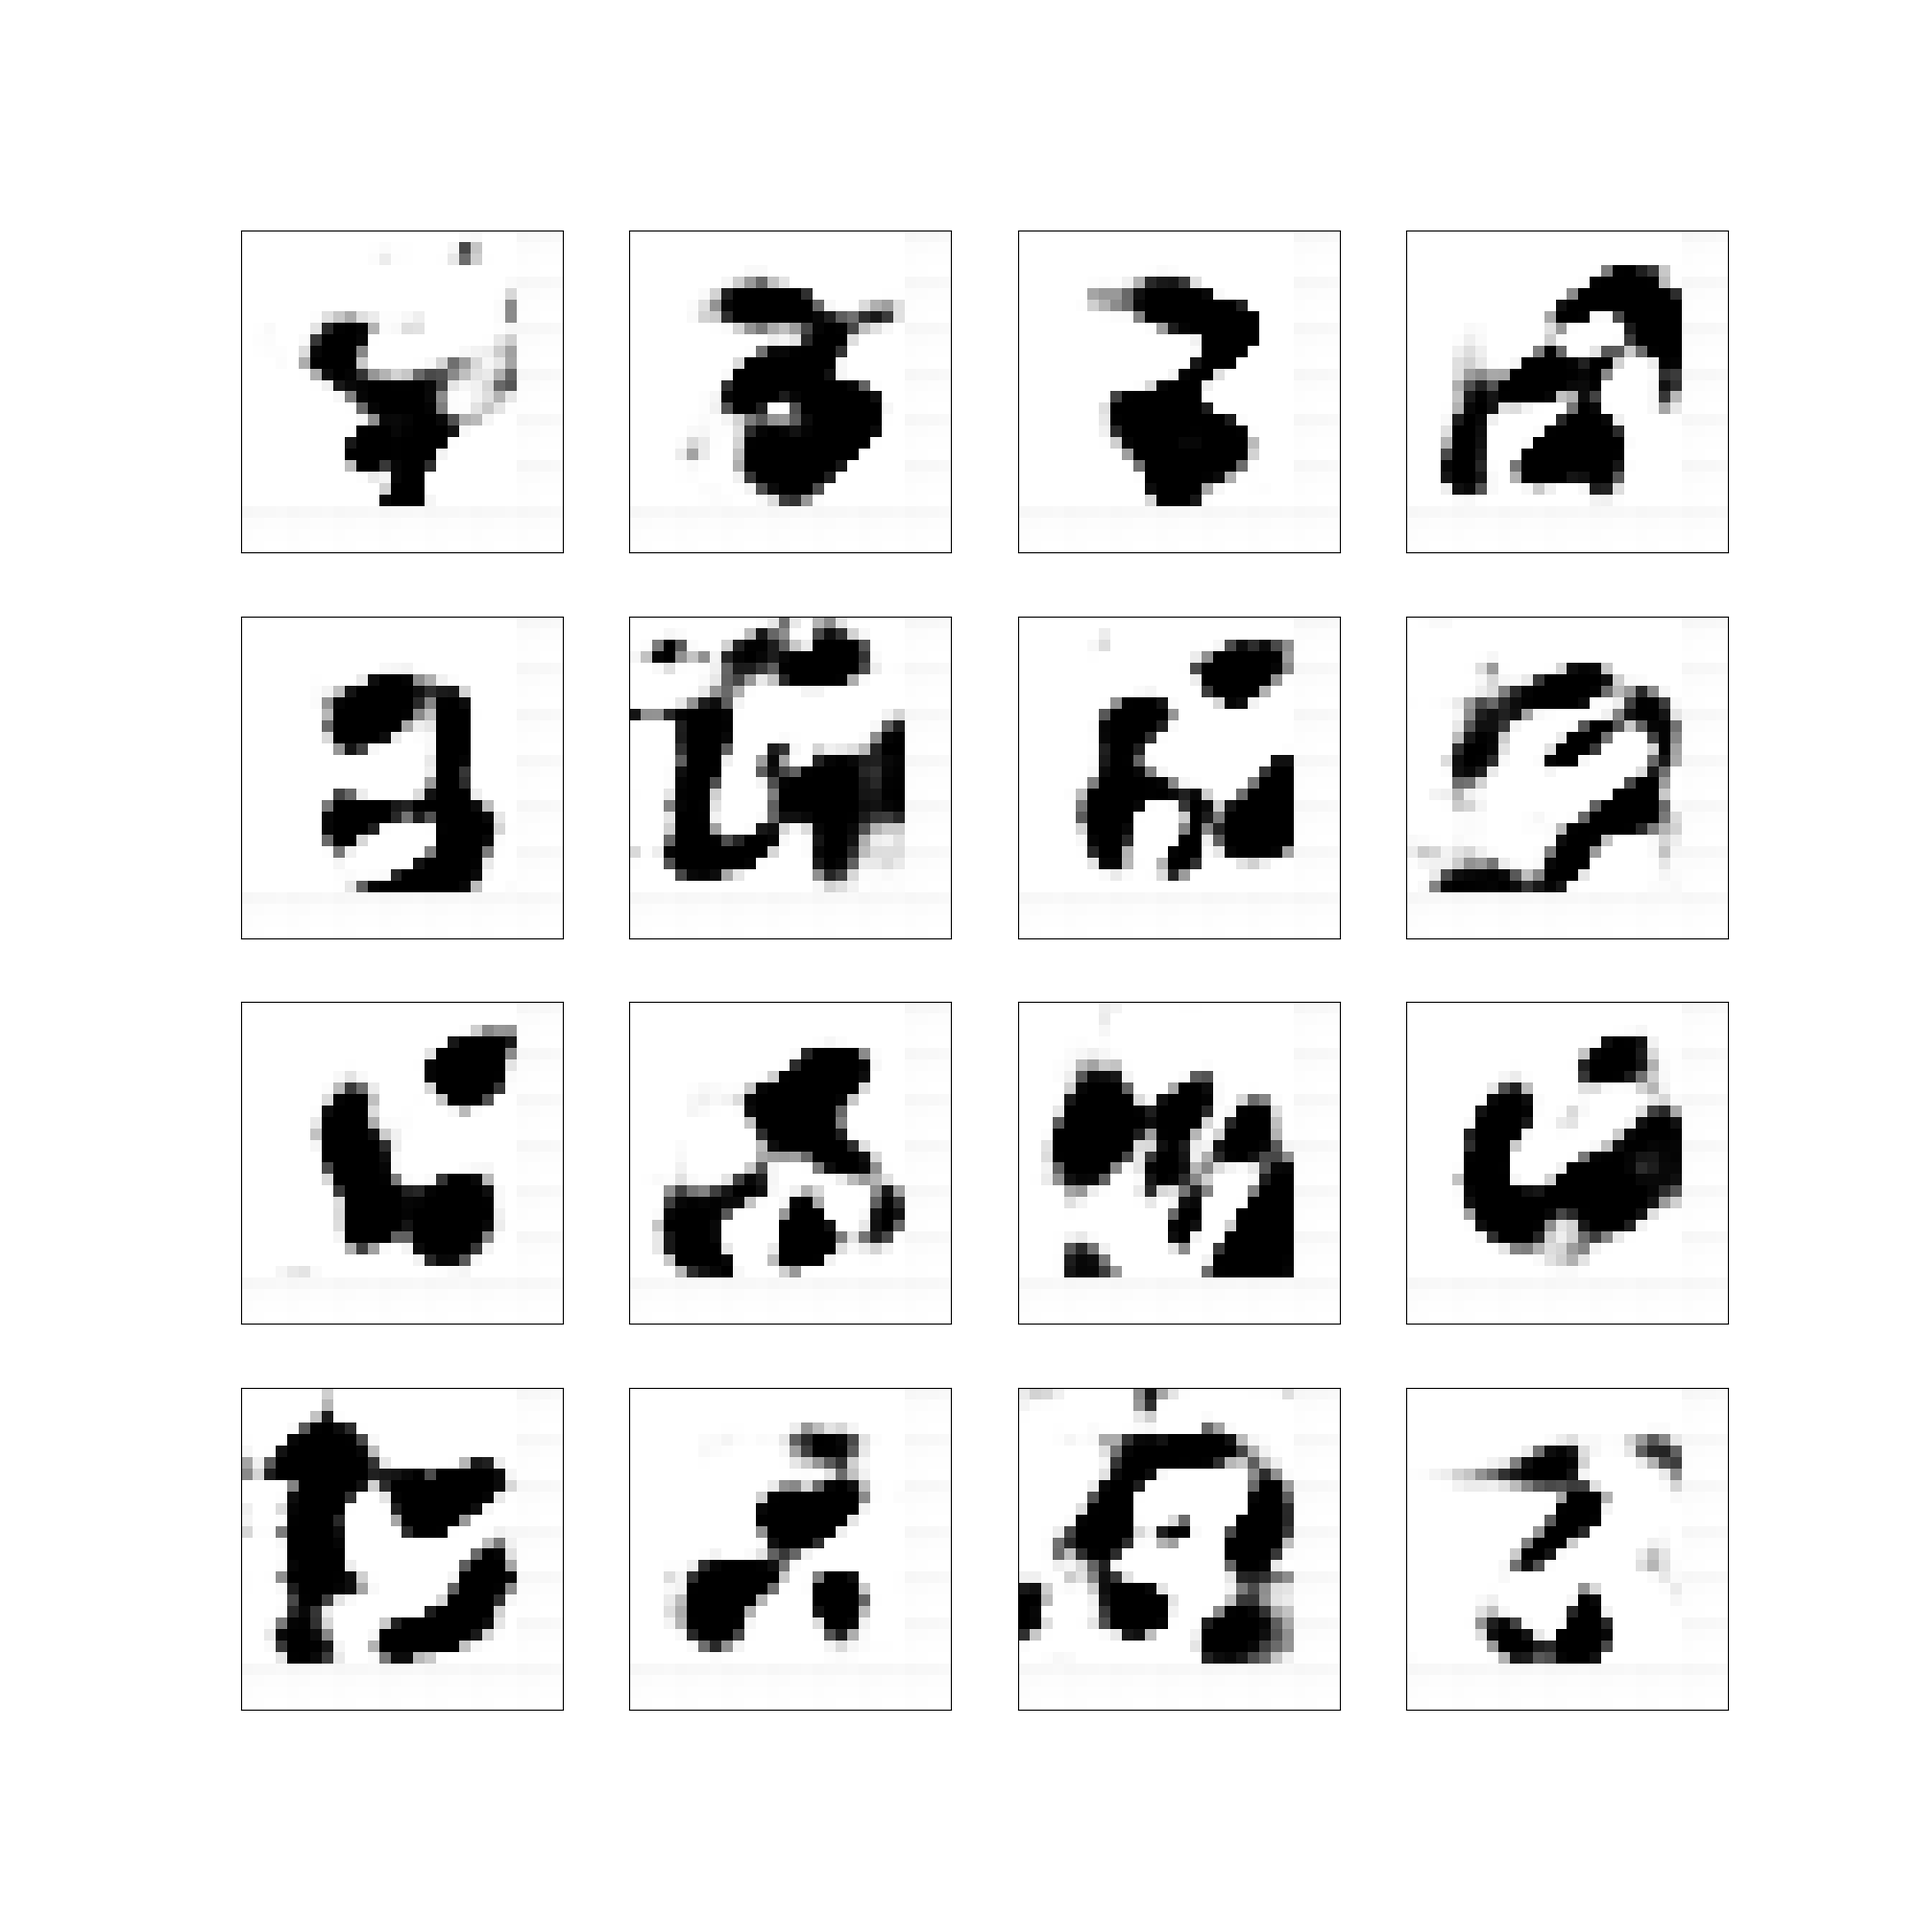
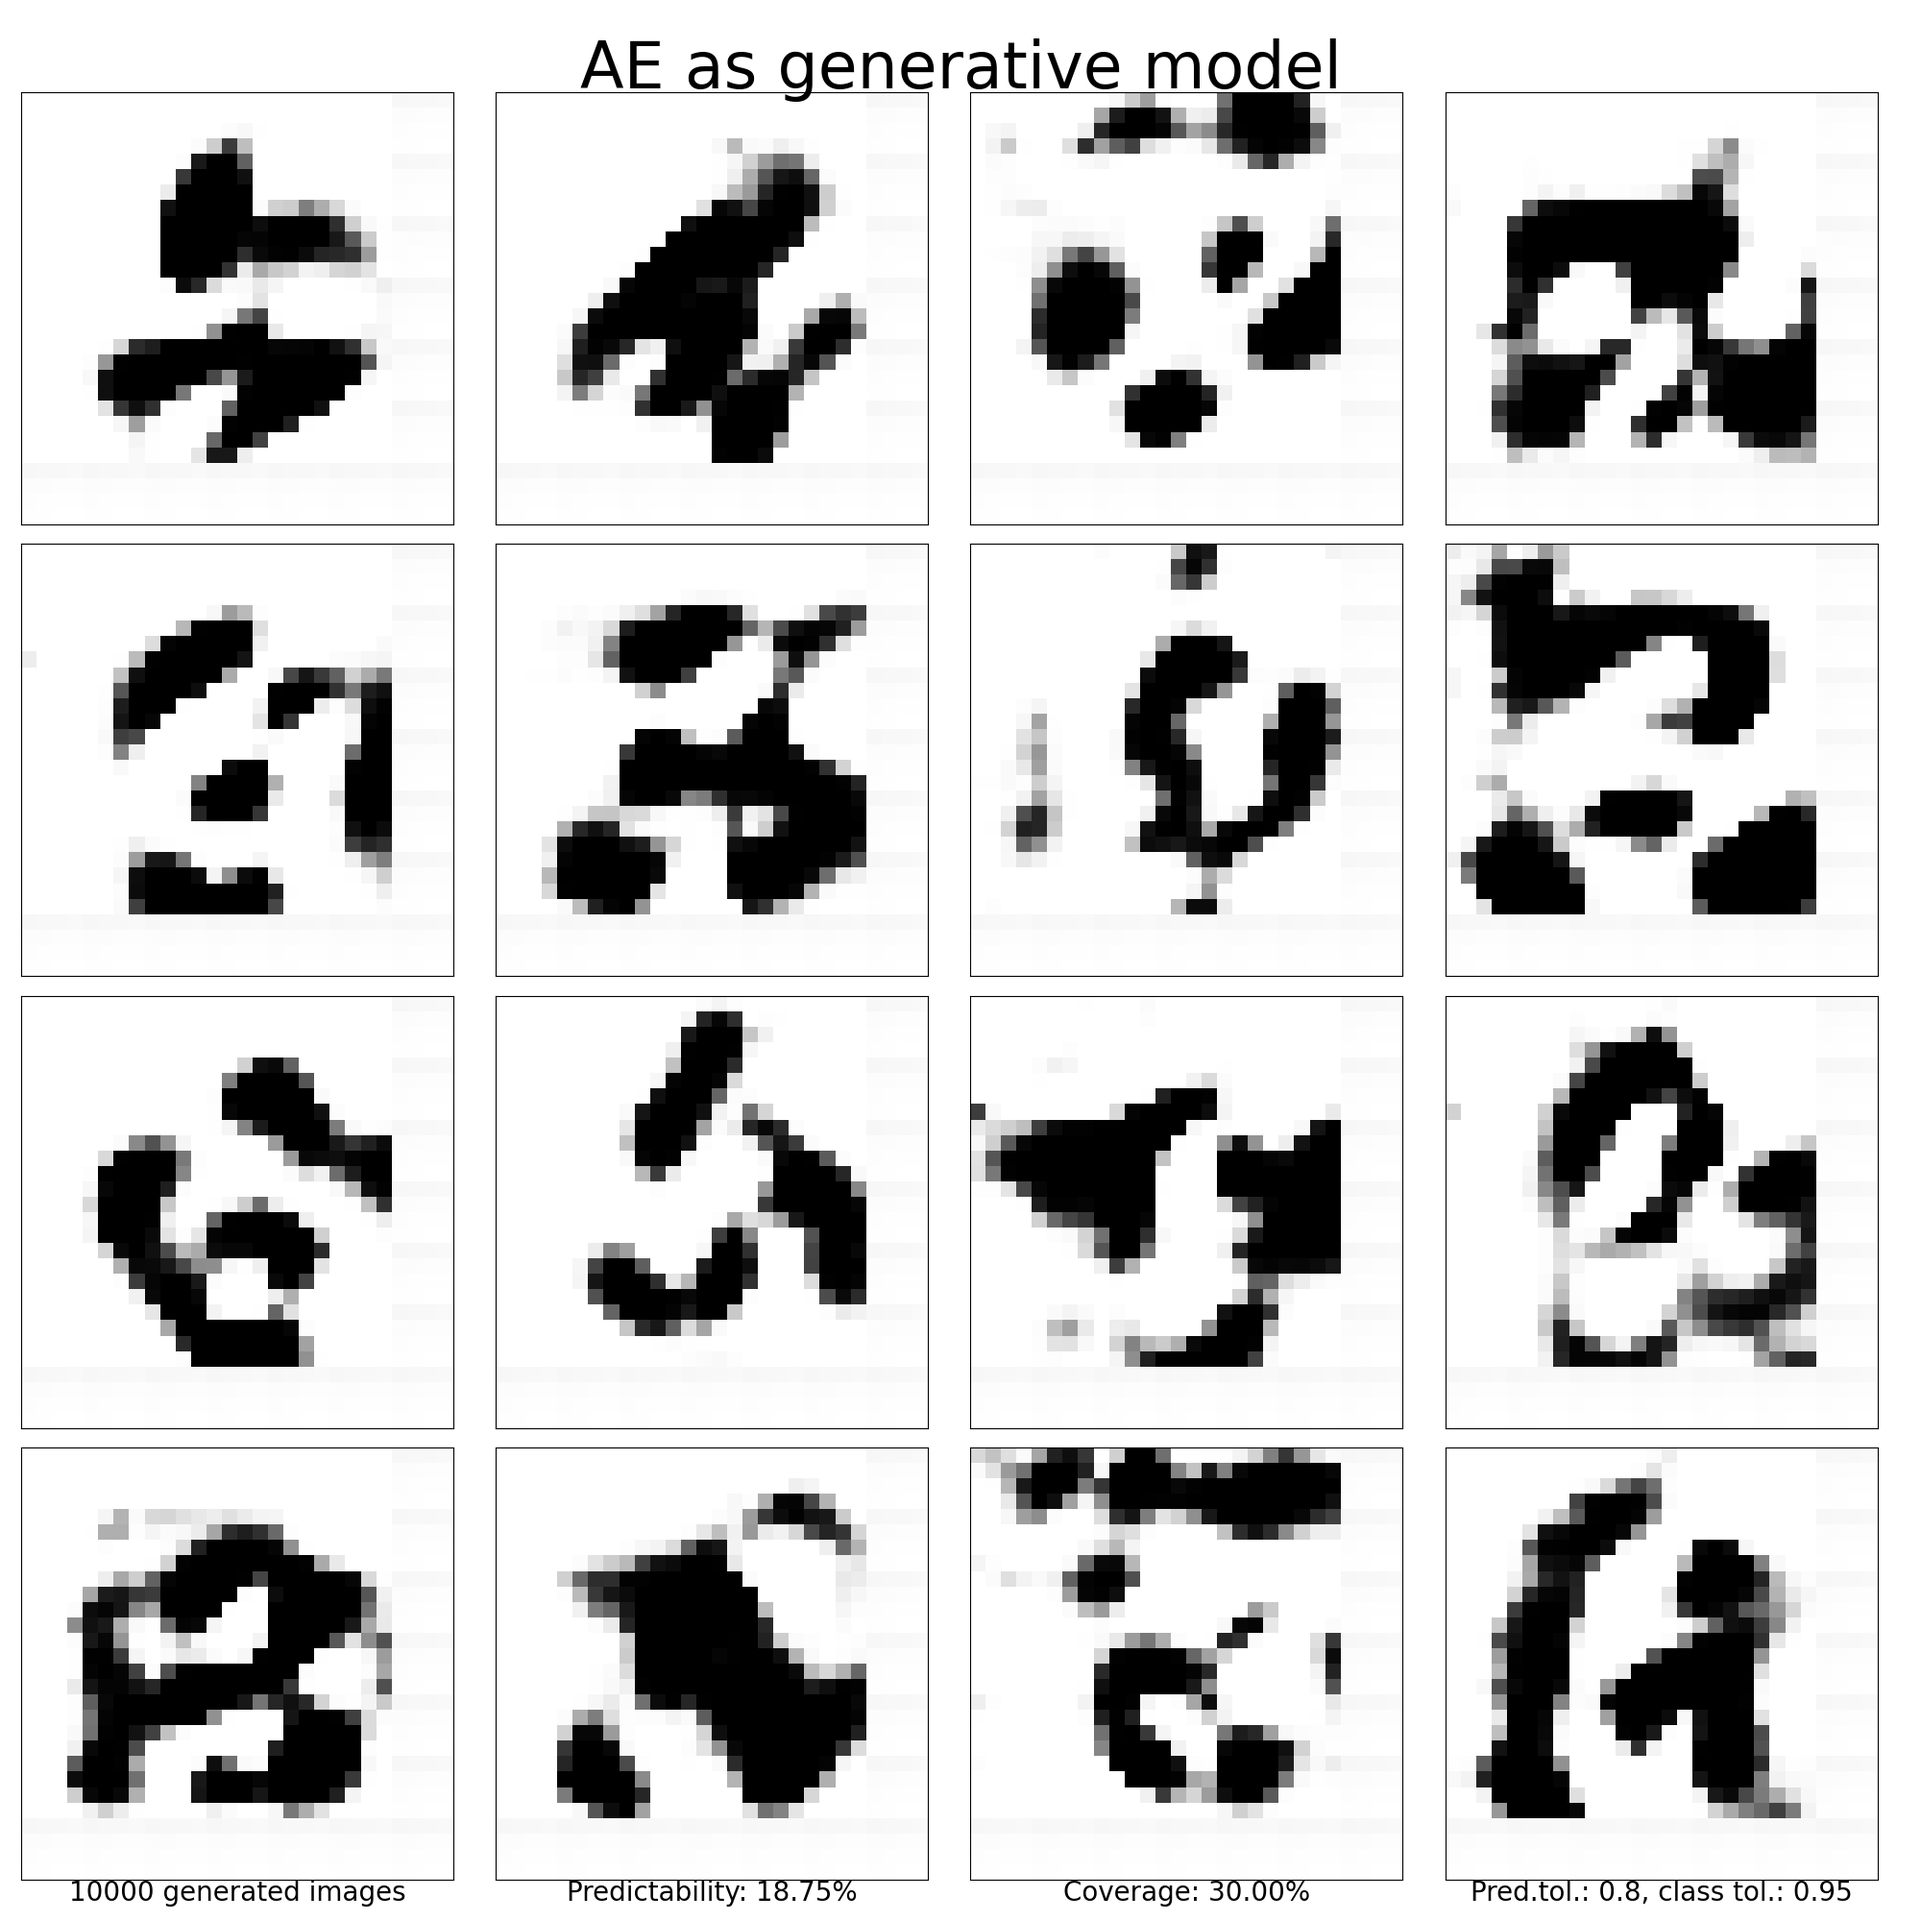
Update AE generative mode with necessary stats + title

diff --git a/Project 2 - Probabilistic AI/main_autoencoder.py b/Project 2 - Probabilistic AI/main_autoencoder.py
@@ -230,6 +230,13 @@ def plot_generative_model(model_path: str, channels: int, plot_savepath: str):
     model = load_model(model, model_path)
     model.eval()
 
+    verification_net = VerificationNet(file_name="./models/verification/verification_model")
+    verification_net.load_weights()
+
+    num_generatives = 10000
+    pred_tolerance = 0.8
+    class_tolerance = 0.95
+
     data, _ = data_generator.get_full_data_set(training=False)
     encoded = model.encode(data)
     maxes = torch.max(encoded, 0).values
@@ -237,19 +244,50 @@ def plot_generative_model(model_path: str, channels: int, plot_savepath: str):
 
     z = (maxes - mins) * torch.rand((16, 28)) + mins
     outputs = model.decode(z)
-    outputs = torch.permute(outputs, (0, 2, 3, 1)).detach().numpy()
+    images = torch.permute(outputs, (0, 2, 3, 1)).detach().numpy()
 
-    _, axes = plt.subplots(nrows=4, ncols=4, figsize=(20, 20))
+    predictability, _ = verification_net.check_predictability(
+        images, tolerance=pred_tolerance
+    )
+    coverage = verification_net.check_class_coverage(data=images, tolerance=class_tolerance)
+
+    fig, axes = plt.subplots(nrows=4, ncols=4, figsize=(20, 20))
     axes = axes.flat
     for i in range(16):
         if channels == 1:
-            axes[i].imshow(outputs[i, :, :, 0], cmap="binary")
+            axes[i].imshow(images[i, :, :, 0], cmap="binary")
         else:
-            axes[i].imshow(outputs[i, :, :, :].astype(float))
+            axes[i].imshow(images[i, :, :, :].astype(float))
 
         axes[i].set_xticks([])
         axes[i].set_yticks([])
     
+    fig.suptitle("AE as generative model", fontsize=48)
+    axes[12].text(0.5, 0.0, 
+        f"{num_generatives} generated images",
+        horizontalalignment="center", verticalalignment="top",
+        transform=axes[12].transAxes,
+        fontsize=20
+    )
+    axes[13].text(0.5, 0.0, 
+        f"Predictability: {100*predictability:.2f}%",
+        horizontalalignment="center", verticalalignment="top",
+        transform=axes[13].transAxes,
+        fontsize=20
+    )
+    axes[14].text(0.5, 0.0,
+        f"Coverage: {100*coverage:.2f}%",
+        horizontalalignment="center", verticalalignment="top",
+        transform=axes[14].transAxes,
+        fontsize=20
+    )
+    axes[15].text(0.5, 0.0, 
+        f"Pred.tol.: {pred_tolerance}, class tol.: {class_tolerance}",
+        horizontalalignment="center", verticalalignment="top",
+        transform=axes[15].transAxes,
+        fontsize=20
+    )
+    fig.tight_layout()
     # plt.show()
     plt.savefig(plot_savepath)
     print(f"Generative mode saved at {plot_savepath}")
@@ -331,17 +369,17 @@ if __name__ == "__main__":
     # print_model_output("models/autoencoder/mono_demo.pt", 1)
     # print_model_output("models/autoencoder/mono_demo.pt", 3)
 
-    # # Plot AE as generative model
-    # plot_generative_model(
-    #     "models/autoencoder/mono_demo.pt", 1, "images/autoencoder/generative_mode.png"
-    # )
+    # Plot AE as generative model
+    plot_generative_model(
+        "models/autoencoder/mono_demo.pt", 1, "images/autoencoder/generative_mode.png"
+    )
 
     # # Train anomaly detector
     # train_autoencoder(
     #     DataMode.MONO_BINARY_MISSING, 1, "models/autoencoder/mono_anomaly.pt",
     #     epochs=100
     # )
-    # Use AE as anomaly detector
-    plot_anomaly_detection(
-        "models/autoencoder/mono_anomaly.pt", 1, "images/autoencoder/anomaly_detection.png"
-    )
+    # # Use AE as anomaly detector
+    # plot_anomaly_detection(
+    #     "models/autoencoder/mono_anomaly.pt", 1, "images/autoencoder/anomaly_detection.png"
+    # )
